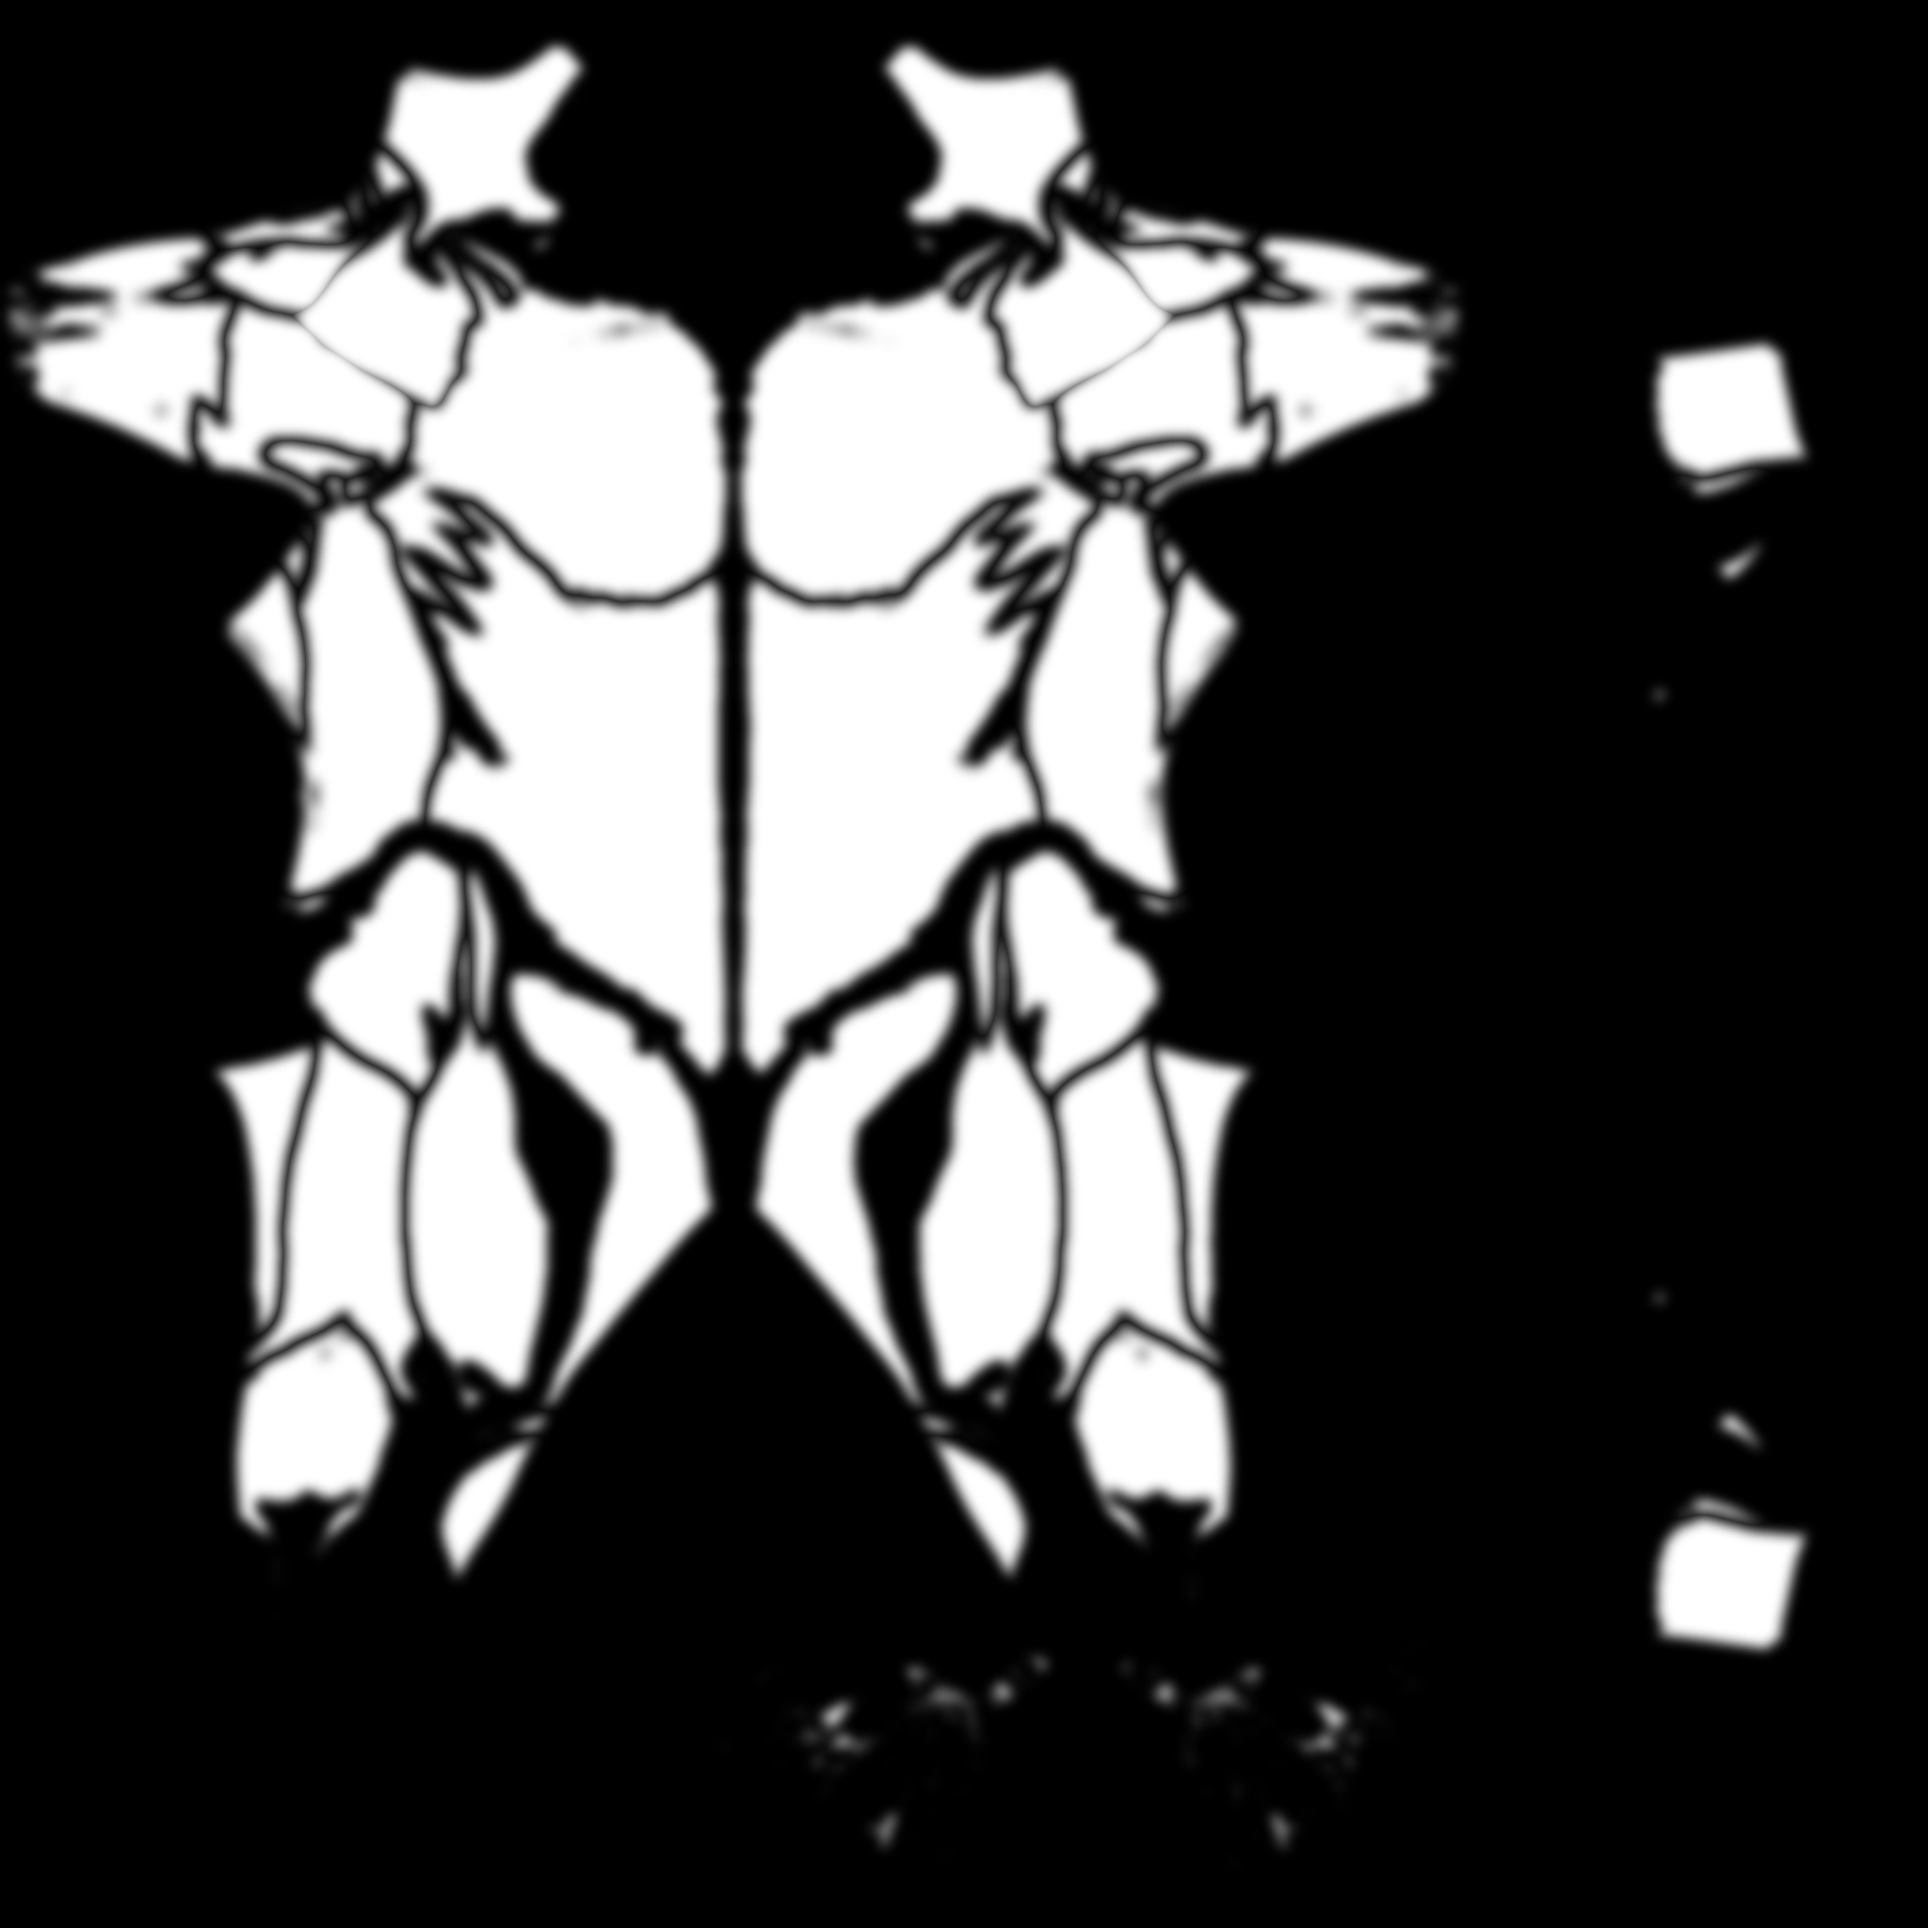
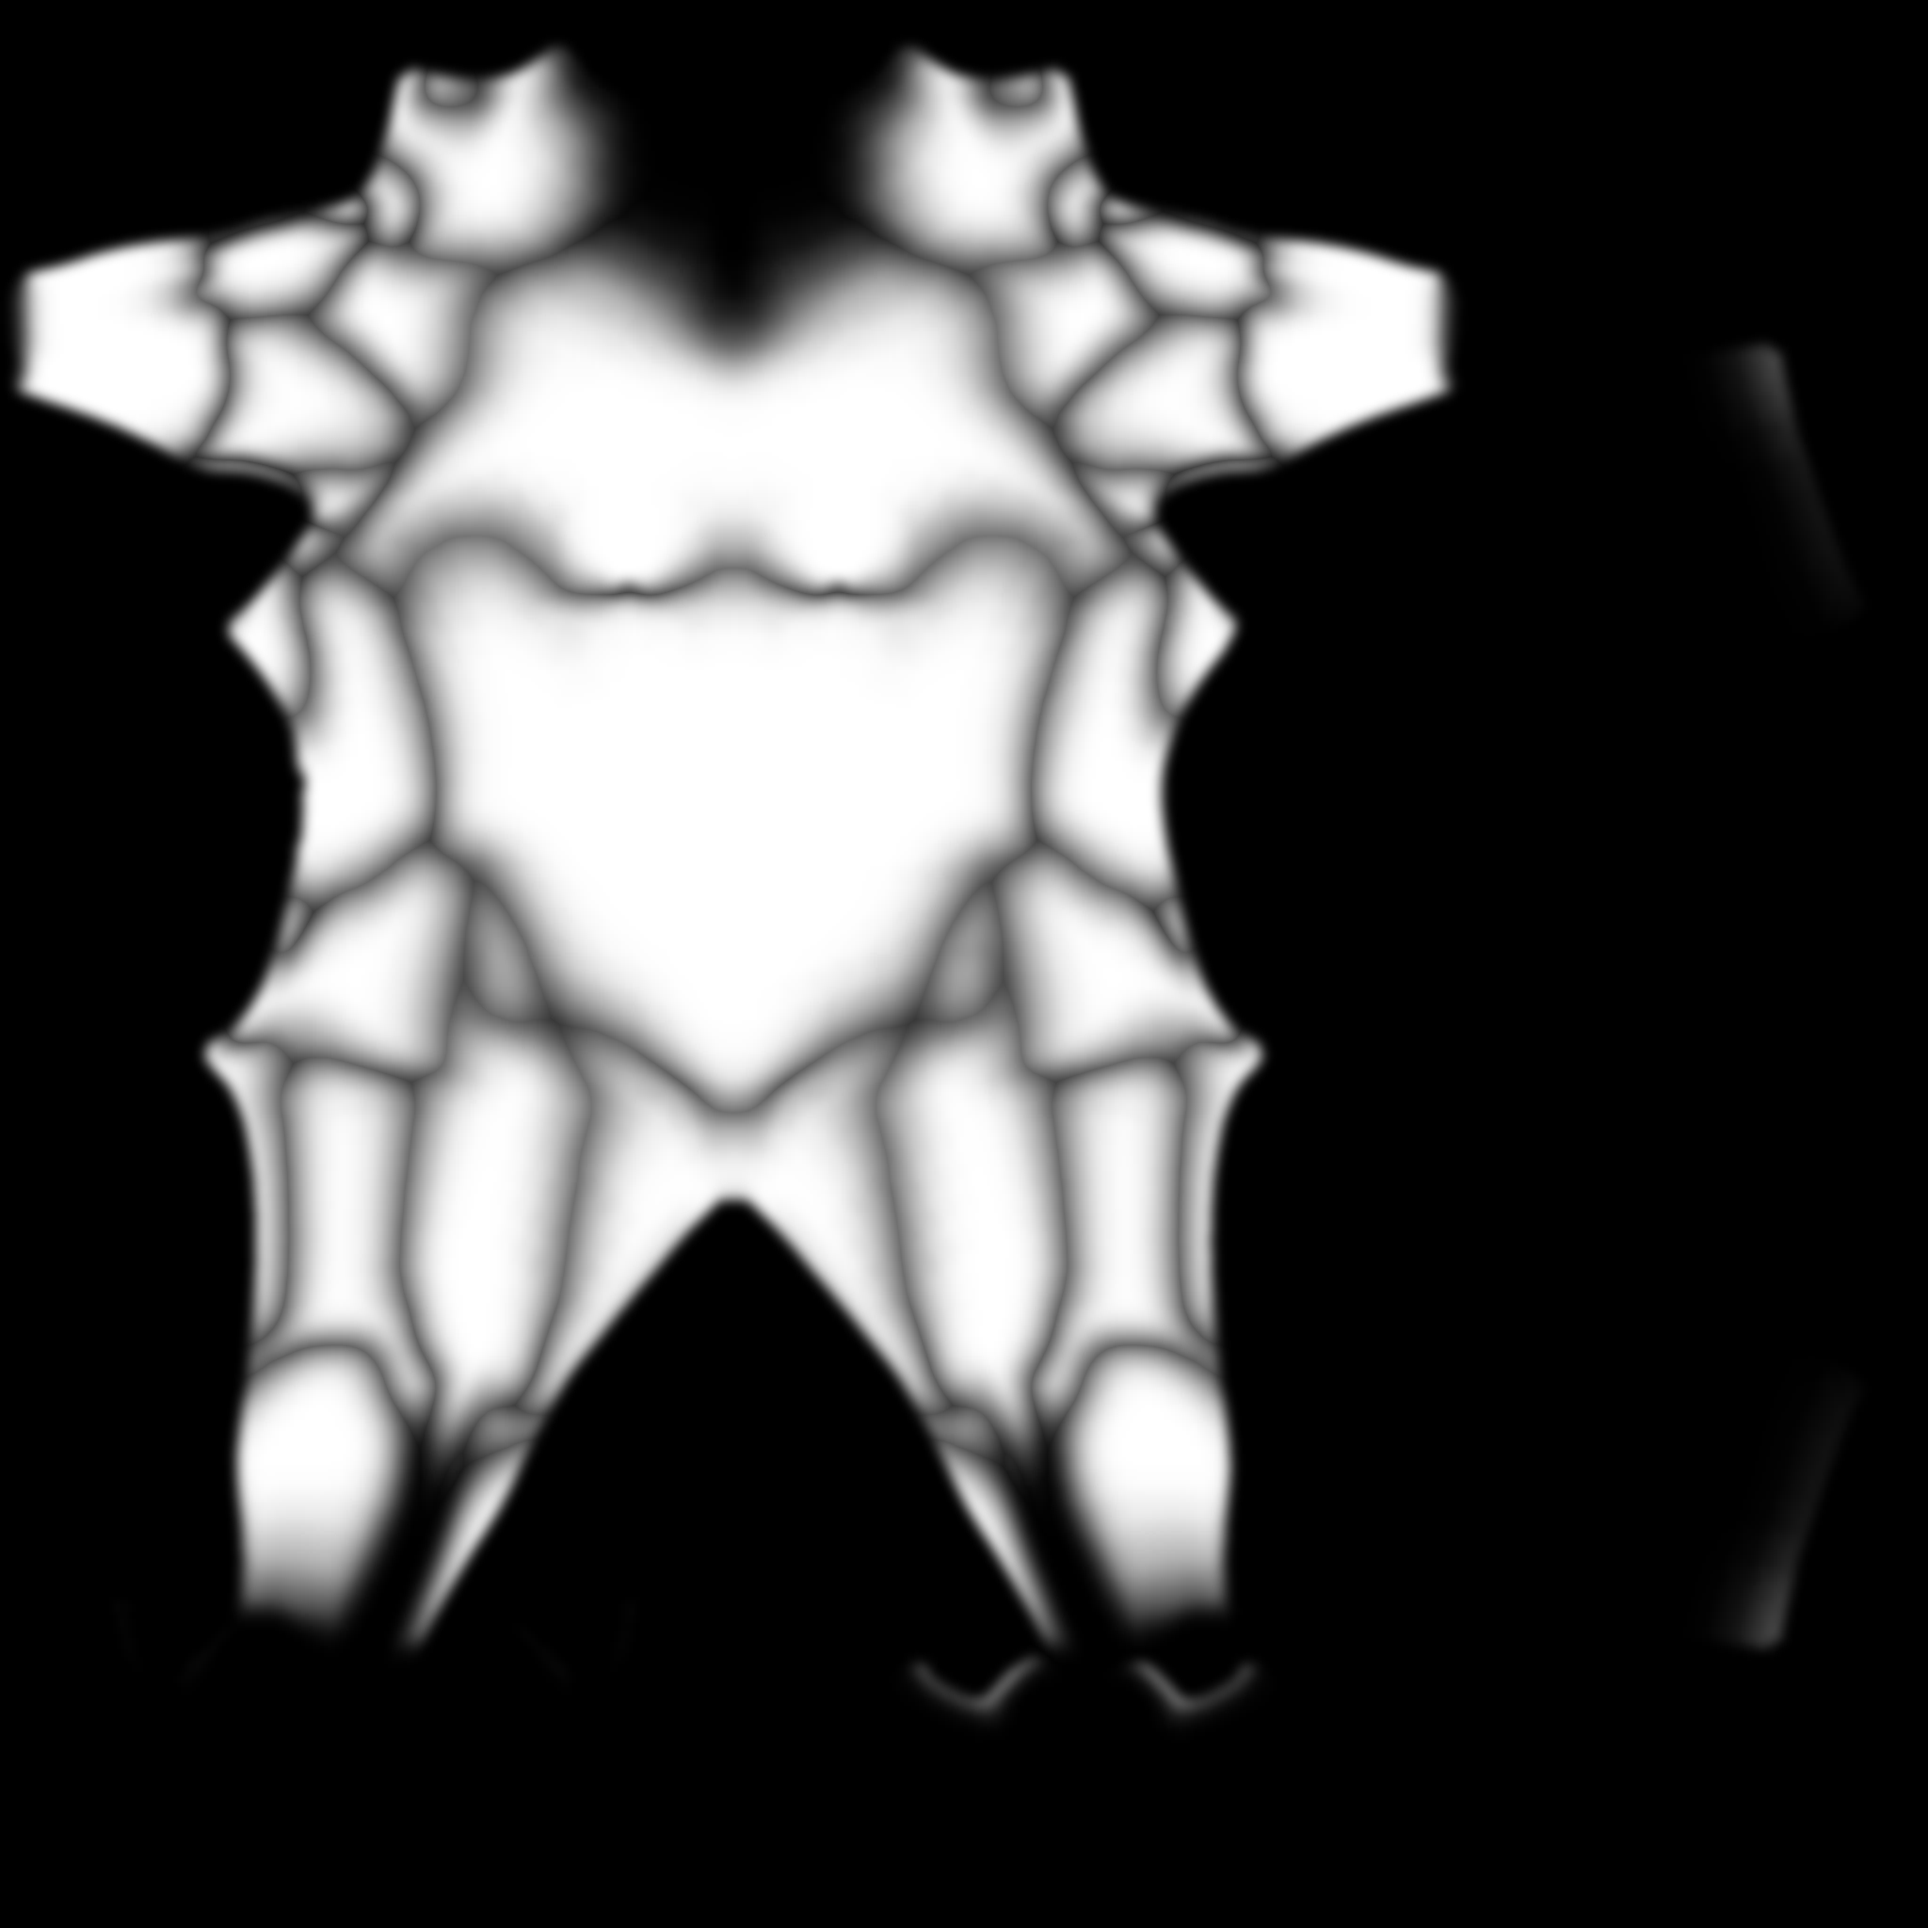
Repair muscle coverage with surface projection and remove faulty relief

diff --git a/core/repair_muscle_maps.py b/core/repair_muscle_maps.py
@@ -1,0 +1,85 @@
+"""Project fitted anatomy onto skin by nearest surface, avoiding bone ray occlusion.
+Run Blender -b review/muscle_fit.blend --python core/repair_muscle_maps.py.
+Original ray bakes are preserved; repaired masks retain the source CC BY-SA licence.
+"""
+import bpy, sys, json
+from pathlib import Path
+from collections import Counter
+from mathutils.bvhtree import BVHTree
+ROOT=Path(__file__).resolve().parents[1];sys.path.insert(0,str(ROOT))
+from core.look import GROUPS
+scene=bpy.context.scene
+body=next(o for o in scene.objects if o.type=='MESH' and o.find_armature())
+rig=body.find_armature()
+for pb in rig.pose.bones:pb.matrix_basis.identity()
+bpy.context.view_layer.update()
+trees=[]
+for g in GROUPS:
+ o=bpy.data.objects['ZA_'+g]
+ trees.append(BVHTree.FromPolygons([o.matrix_world@v.co for v in o.data.vertices],[list(p.vertices) for p in o.data.polygons]))
+# Evaluate shape keys with unchanged vertex order. Helpers are excluded by the body mask.
+mask=next(m for m in body.modifiers if m.type=='MASK');mask.show_viewport=False
+vg=body.vertex_groups[mask.vertex_group].index
+skin={v.index for v in body.data.vertices if any(g.group==vg and g.weight>.5 for g in v.groups)}
+dg=bpy.context.evaluated_depsgraph_get();ev=body.evaluated_get(dg);me=ev.to_mesh()
+points=[body.matrix_world@v.co for v in me.vertices];ev.to_mesh_clear();mask.show_viewport=True
+labels={};distances={}
+for i in skin:
+ p=points[i]
+ # Leave face, fingers and feet neutral; these are not muscle selection surfaces.
+ if p.z>1.52 or p.z<.13:continue
+ side='L' if p.x>0 else 'R'
+ wrist=rig.data.bones['wrist.'+side].head_local
+ elbow=rig.data.bones['lowerarm01.'+side].head_local
+ if abs(p.x)>.37 and (p-wrist).dot(wrist-elbow)>0:continue
+ candidates=[]
+ for k,tree in enumerate(trees):
+  g=GROUPS[k]
+  if g=='lower back' and p.z>1.20:continue
+  if g=='forearms' and (p-elbow).dot(wrist-elbow)<0:continue
+  loc,normal,face,d=tree.find_nearest(p)
+  if d is not None:candidates.append((d,k))
+ d,k=min(candidates)
+ if GROUPS[k]=='calves':
+  knee=rig.data.bones['lowerleg01.'+side].head_local
+  ankle=rig.data.bones['foot.'+side].head_local
+  t=max(0.,min(1.,(p.z-ankle.z)/(knee.z-ankle.z)))
+  if p.y<ankle.y+(knee.y-ankle.y)*t:continue
+ if d<.075:labels[i]=k;distances[i]=d
+# Remove isolated assignments on the connected skin, without spreading across UV seams.
+adj={i:set() for i in skin}
+for e in body.data.edges:
+ a,b=e.vertices
+ if a in skin and b in skin:adj[a].add(b);adj[b].add(a)
+for _ in range(2):
+ out=dict(labels)
+ for i,k in labels.items():
+  counts=Counter(labels[n] for n in adj[i] if n in labels)
+  if counts:
+   win,num=counts.most_common(1)[0]
+   if num>=3 and num>counts[k]+1:out[i]=win
+ labels=out
+# Smooth labels on the surface graph, not across unrelated UV islands.
+weights={i:[float(labels.get(i)==k) for k in range(len(GROUPS))] for i in skin}
+for _ in range(5):
+ weights={i:[.5*w[k]+.5*sum(weights[n][k] for n in adj[i])/max(1,len(adj[i])) for k in range(len(GROUPS))] for i,w in weights.items()}
+for o in scene.objects:
+ if o!=body:o.hide_render=True;o.select_set(False)
+body.hide_render=False;body.hide_set(False);body.select_set(True);bpy.context.view_layer.objects.active=body
+m=bpy.data.materials.new('repaired_anatomy');m.use_nodes=True;nt=m.node_tree;nt.nodes.clear()
+attr=body.data.color_attributes.new(name='anatomy_projection',type='FLOAT_COLOR',domain='CORNER')
+a=nt.nodes.new('ShaderNodeVertexColor');a.layer_name=attr.name
+e=nt.nodes.new('ShaderNodeEmission');nt.links.new(a.outputs['Color'],e.inputs[0]);o=nt.nodes.new('ShaderNodeOutputMaterial');nt.links.new(e.outputs[0],o.inputs[0])
+t=nt.nodes.new('ShaderNodeTexImage');nt.nodes.active=t;t.select=True
+body.data.materials.clear();body.data.materials.append(m)
+scene.render.engine='CYCLES';scene.cycles.device='CPU';scene.cycles.samples=1;scene.render.use_freestyle=False;scene.use_nodes=False
+scene.render.bake.use_selected_to_active=False;scene.render.bake.margin=12
+out=ROOT/'assets/maps/repaired';out.mkdir(exist_ok=True)
+for pack in range(6):
+ for loop in body.data.loops:
+  w=weights.get(loop.vertex_index,[0.]*len(GROUPS));rgb=[w[k] if k<len(GROUPS) else 0. for k in range(pack*3,pack*3+3)]+[1.]
+  attr.data[loop.index].color=rgb
+ img=bpy.data.images.new('repaired_'+str(pack),2048,2048,alpha=False);img.colorspace_settings.name='Non-Color';t.image=img
+ bpy.ops.object.bake(type='EMIT');img.filepath_raw=str(out/f'mask_{pack}.png');img.file_format='PNG';img.save()
+ print('REPAIRED',pack,flush=True)
+(out/'coverage.json').write_text(json.dumps({g:sum(k==j for k in labels.values()) for j,g in enumerate(GROUPS)},indent=2)+'\n')

diff --git a/core/prepare_maps.py b/core/prepare_maps.py
@@ -8,7 +8,9 @@ ROOT=Path(__file__).resolve().parents[1];maps=ROOT/'assets/maps'
 soft=maps/'soft';soft.mkdir(exist_ok=True)
 height=Image.new('L',(2048,2048),0)
 for i in range(6):
- im=Image.open(maps/f'mask_{i}.png').convert('RGB')
+ source=maps/'repaired'/f'mask_{i}.png'
+ if not source.exists():source=maps/f'mask_{i}.png'
+ im=Image.open(source).convert('RGB')
  im.filter(ImageFilter.GaussianBlur(1.2)).save(soft/f'mask_{i}.png')
  for j,c in enumerate(im.split()):
   # Only body groups: no face, scalp, skeletal rays or neck relief.

diff --git a/core/look.py b/core/look.py
@@ -24,7 +24,7 @@ def load_masks():
     return imgs
 
 
-def muscle_material(primary=(), secondary=(), name="body", use_normal=True,
+def muscle_material(primary=(), secondary=(), name="body", use_normal=False,
                     base=(0.32, 0.36, 0.42), hot=(0.72, 0.025, 0.018), warm=(0.95, 0.26, 0.025)):
     m = bpy.data.materials.new(name)
     m.use_nodes = True

diff --git a/assets/maps/README.md b/assets/maps/README.md
@@ -1,35 +1,29 @@
-# Muscle maps and relief
+# Muscle masks
 
-The six RGB masks contain the 17 muscle groups in `core/look.py:GROUPS` order.
-Source fitting and baking are described in `research/FINDINGS.md` and
-`build_muscle_maps.py`. Source anatomy attribution is in `LICENSE.md`.
+The six RGB atlases contain the 17 groups in `core/look.py:GROUPS` order.
+The original selected-to-active ray bakes remain at `mask_0..5.png` for comparison.
+Their fitted Z-Anatomy sources and attribution are described in `LICENSE.md` and
+`build_muscle_maps.py`.
 
-The old tangent-space `muscle_normal.png` had a mirrored left/right seam and
-excessive face relief. It is intentionally ignored by git and never sampled by
-the current shader. The shipping detail uses a shallow height bump derived from
-the masks (`muscle_detail_height.png`), excluding the face/neck. This keeps the
-neutral mannequin readable without the faulty tangent bake.
+Shipping masks are now projected from the nearest fitted muscle surface onto the
+MPFB skin, then smoothed along connected skin vertices. This avoids holes caused
+by bones/other source objects blocking bake rays, and does not blur across separate
+UV islands. Face, hands, feet and anterior shin remain neutral. Source-distance
+limits and regional bounds prevent arbitrary distant muscles filling empty skin.
+These are group-level surface highlights, not an exposed-muscle anatomical model.
 
-`python3 core/prepare_maps.py` creates the softened masks under `soft/` and the
-height map. It requires Pillow. The shader prefers softened masks and falls back
-to the original masks if they are absent. The current shader uses a 1.5 mm bump
-distance at 0.24 strength. These settings are visual relief, not anatomical depth.
-
-The deltoid channel was rebaked from the fitted muscular source to improve its
-coverage. To reproduce that bake, start with the unmodified fitted scene:
+Reproduce from the original fitted scene:
 
 ```sh
-BLENDER_USER_RESOURCES="$PWD/.blender-profile" /Applications/Blender.app/Contents/MacOS/Blender -b review/muscle_fit.blend --python core/rebake_shoulders.py
-python3 - <<'PY'
-from PIL import Image
-p = 'assets/maps/mask_3.png'
-r, g, b = Image.open(p).convert('RGB').split()
-shoulder = Image.open('review/shoulder_projection.png').convert('RGB').getchannel('R')
-Image.merge('RGB', (r, g, shoulder)).save(p)
-PY
+BLENDER_USER_RESOURCES="$PWD/.blender-profile" /Applications/Blender.app/Contents/MacOS/Blender -b review/muscle_fit.blend --python-exit-code 1 --python core/repair_muscle_maps.py
 python3 core/prepare_maps.py
 ```
 
-The rebake extends only the distal deltoid fit, then projects all source groups
-with the others acting as occluders. Do not rerun it on an already modified source
-scene. Re-render exercise extremes and the body selector after changing masks.
+`repaired/` contains the new atlases and vertex coverage counts; `soft/` is the
+shader input. Re-render `bodymap/render.py`, run `bodymap/trace.py`, and rebuild
+exercise deliveries after changing these maps. All derivatives retain CC BY-SA
+attribution. No external assets were added for this repair.
+
+Both the old tangent normal and mask-derived bump detail are disabled by default.
+The generated height map is retained only for opt-in experimentation; its broken
+surface outlines must not be used as anatomical detail in delivery renders.
